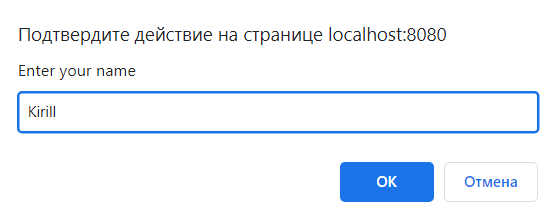
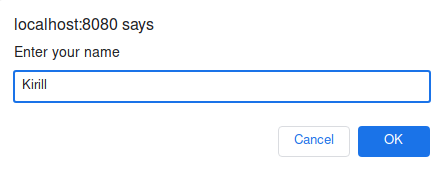
change images in readme.md;

diff --git a/readme.md b/readme.md
@@ -19,8 +19,6 @@ ____
 ## Overall look
 <p align="center">
 <img src="imagesForReadme/2.png"></p>
-<p align="center">
-<img src="imagesForReadme/3.png"></p>
 
 ___
 ## API
